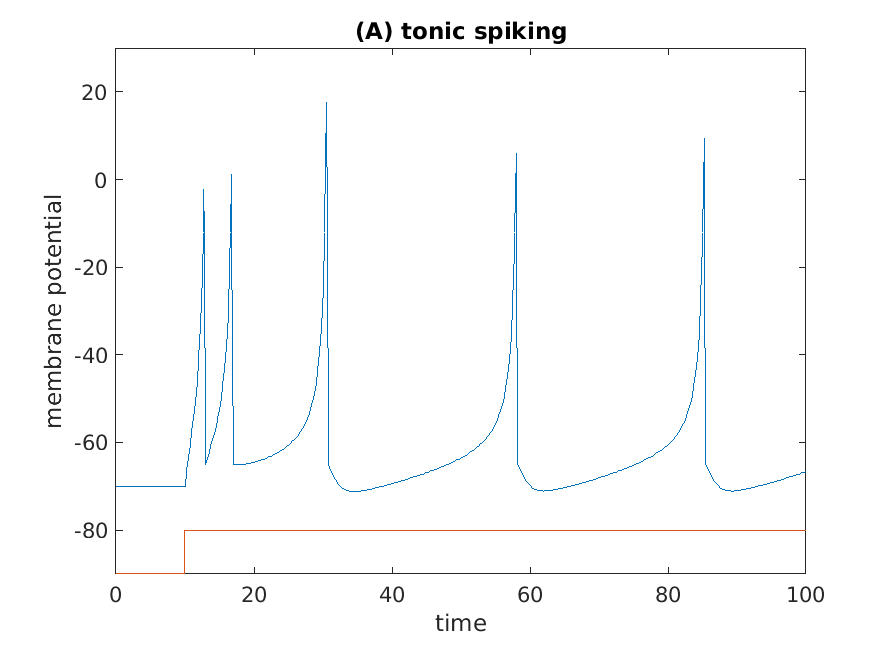
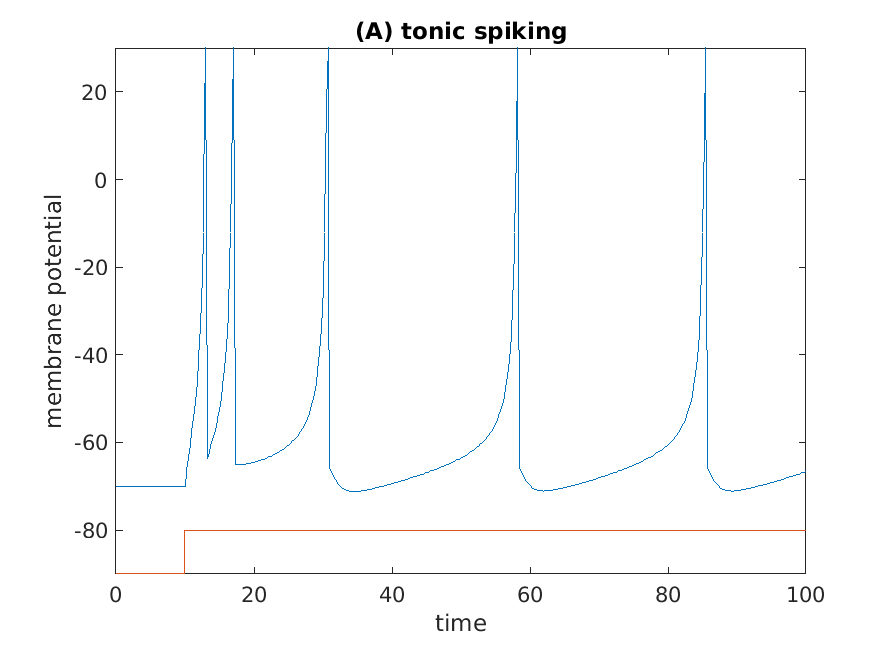
Fixed after-spike resetting potential

diff --git a/LAB1/izhikevich.m b/LAB1/izhikevich.m
@@ -9,7 +9,11 @@
 % I: synaptic currents or injected dc-currents
 % r: flag to distinguish (R) accomodation feature
 
-function [u, w, du, dw] = izhikevich(a, b, c, d, j, k, l, u, w, I, tau, r)
+function [u, w, du, dw, udot, wdot] = izhikevich(a, b, c, d, j, k, l, u, w, I, tau, r)
+    
+    udot=[]; 
+    wdot=[];
+    
     if r==true
         du = j*u^2+k*u+l-w+I;
         dw = a*(b*(u+65));
@@ -23,7 +27,11 @@ function [u, w, du, dw] = izhikevich(a, b, c, d, j, k, l, u, w, I, tau, r)
     
     % after-spike resetting
     if u > 30  % not a threshold, but the peak of the spike
+        udot(end+1)=30;
         u = c;
         w = w + d;
+    else
+        udot(end+1)=u;
     end
+    wdot(end+1)=w;
 end

diff --git a/LAB1/T_inhibition_induced_bursting.m b/LAB1/T_inhibition_induced_bursting.m
@@ -4,7 +4,7 @@
 
 clear variables;
 
-a=-0.026;  b=-1;  c=-45;  d=-2;
+a=-0.026;  b=-1;  c=-45;  d=-0.7;
 j=0.04;  k=5;  l=140;
 r=false;
 
@@ -26,16 +26,11 @@ for t=tspan
         I=75;
     end
     
-    [u, w, du, dw] = izhikevich(a, b, c, d, j, k, l, u, w, I, tau, r);
+    [u, w, du, dw, ud, wd] = izhikevich(a, b, c, d, j, k, l, u, w, I, tau, r);
+    udot(end+1)=ud;
+    wdot(end+1)=wd;
     grad_u(end+1)=du;
     grad_w(end+1)=dw;
-    
-    if u > 30  % not a threshold, but the peak of the spike
-        udot(end+1)=30;
-    else
-        udot(end+1)=u;
-    end
-    wdot(end+1)=w;
 end
 
 % plot membrane potential

diff --git a/LAB1/A_tonic_spiking.m b/LAB1/A_tonic_spiking.m
@@ -28,16 +28,11 @@ for t=tspan
         I=0;
     end
     
-    [u, w, du, dw] = izhikevich(a, b, c, d, j, k, l, u, w, I, tau, r);
+    [u, w, du, dw, ud, wd] = izhikevich(a, b, c, d, j, k, l, u, w, I, tau, r);
+    udot(end+1)=ud;
+    wdot(end+1)=wd;
     grad_u(end+1)=du;
     grad_w(end+1)=dw;
-    
-    if u > 30  % not a threshold, but the peak of the spike
-        udot(end+1)=30;
-    else
-        udot(end+1)=u;
-    end
-    wdot(end+1)=w;
 end
 
 % plot membrane potential

diff --git a/LAB1/C_tonic_bursting.m b/LAB1/C_tonic_bursting.m
@@ -27,16 +27,11 @@ for t=tspan
         I=0;
     end
     
-    [u, w, du, dw] = izhikevich(a, b, c, d, j, k, l, u, w, I, tau, r);
+    [u, w, du, dw, ud, wd] = izhikevich(a, b, c, d, j, k, l, u, w, I, tau, r);
+    udot(end+1)=ud;
+    wdot(end+1)=wd;
     grad_u(end+1)=du;
     grad_w(end+1)=dw;
-    
-    if u > 30  % not a threshold, but the peak of the spike
-        udot(end+1)=30;
-    else
-        udot(end+1)=u;
-    end
-    wdot(end+1)=w;
 end
 
 % plot membrane potential
